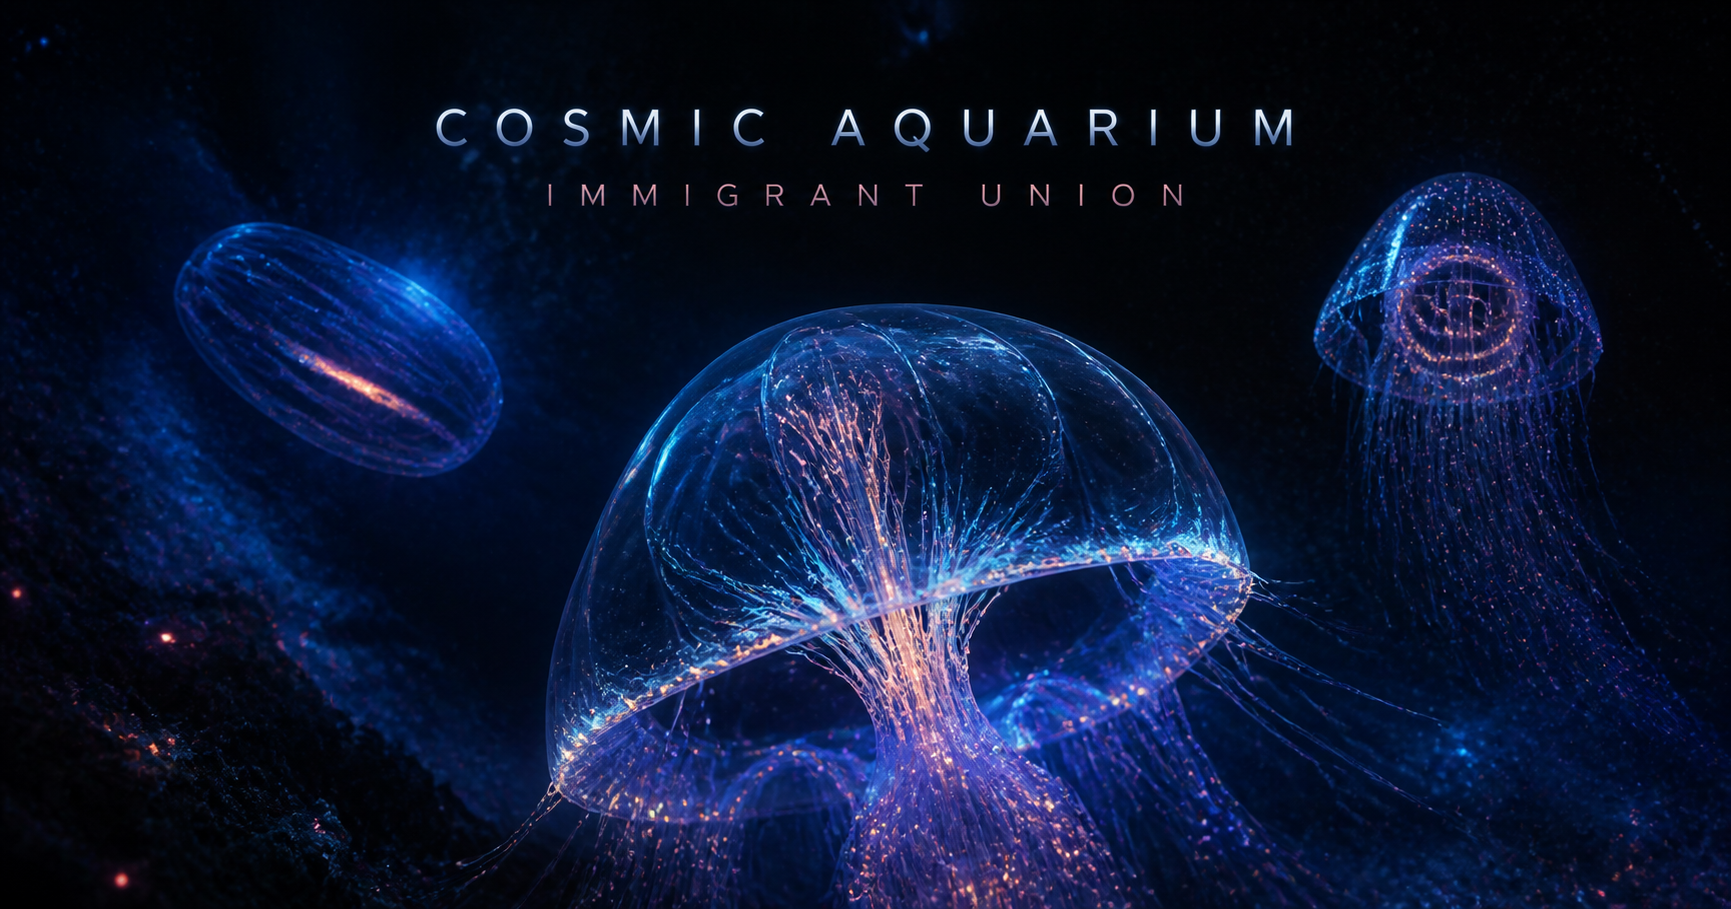
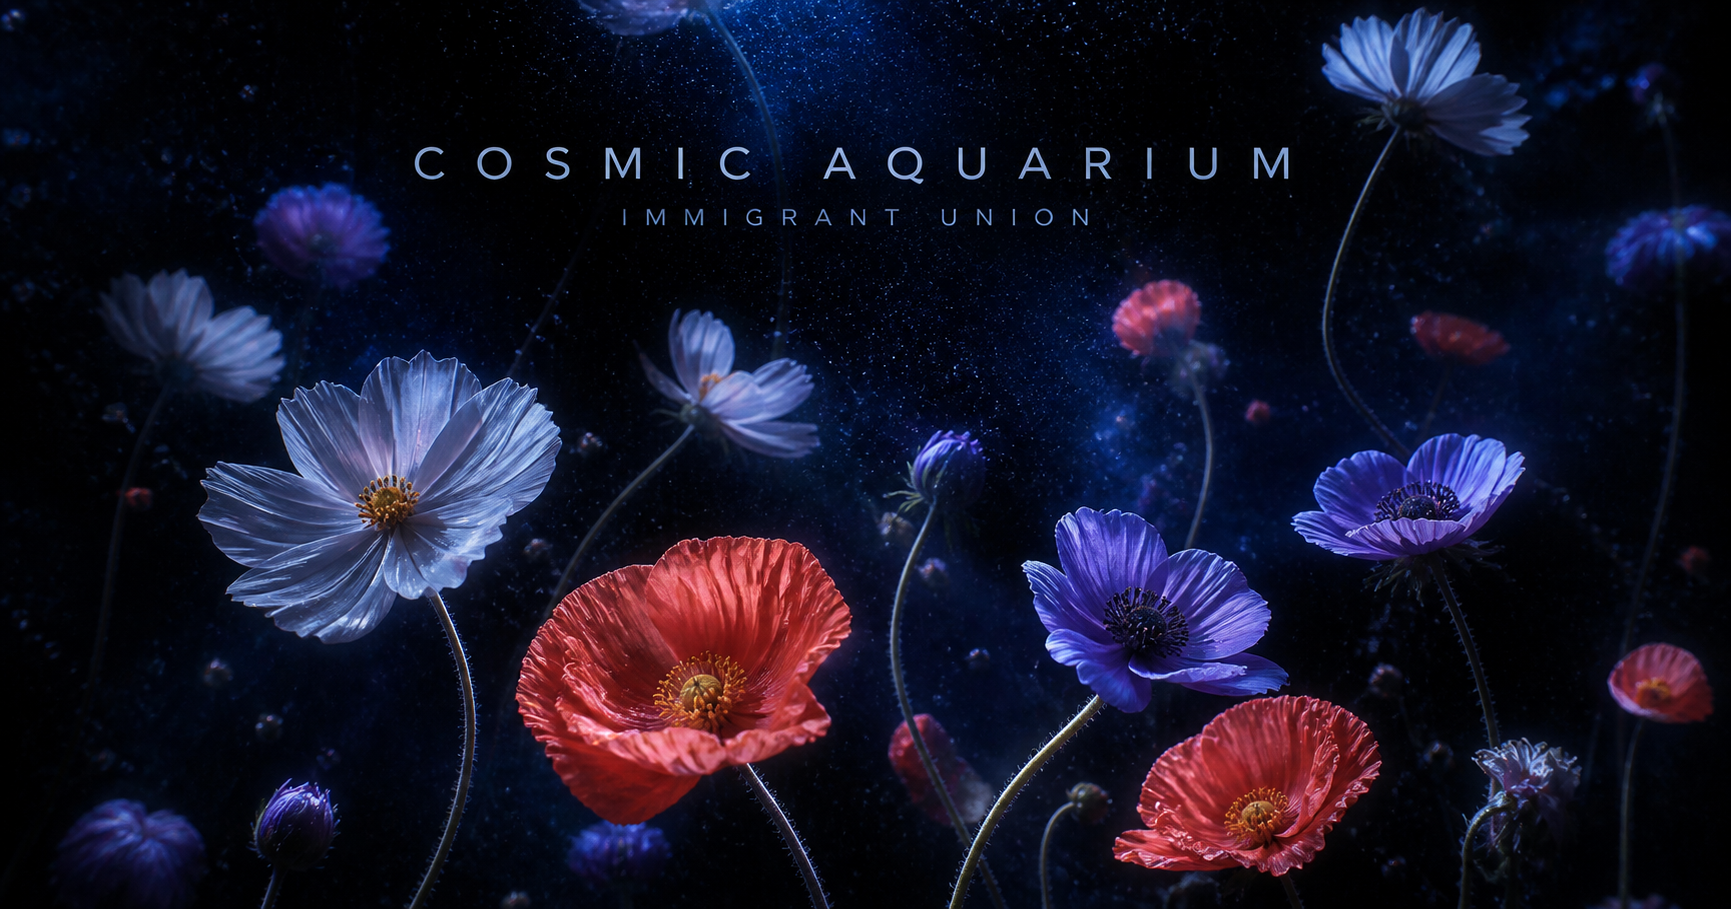
Replace cosmic organisms with flowing flowers

diff --git a/src/features/cosmic-aquarium/CosmicAquarium.tsx b/src/features/cosmic-aquarium/CosmicAquarium.tsx
@@ -13,7 +13,7 @@ import { officialTrackEmbedUrl } from '@/src/adapters/bandcamp-adapter';
 import { immigrantUnionAlbums, immigrantUnionSongs } from '@/src/data/immigrant-union-catalogue';
 
 type Depth = 'far' | 'mid' | 'near' | 'foreground';
-type Species = 'bell' | 'orb' | 'manta' | 'radiolarian' | 'seed' | 'ribbon' | 'hero';
+type Species = 'cosmos' | 'poppy' | 'anemone';
 
 interface CreatureDefinition {
   id: string;
@@ -31,16 +31,16 @@ interface CreatureDefinition {
 }
 
 const CREATURES: CreatureDefinition[] = [
-  { id: 'ca-01', trackIndex: 0, species: 'bell', depth: 'near', x: 13, y: 30, size: 118, duration: 24, delay: -9, travelX: 34, travelY: -42, hue: 194 },
-  { id: 'ca-02', trackIndex: 19, species: 'orb', depth: 'far', x: 78, y: 19, size: 66, duration: 31, delay: -18, travelX: -49, travelY: 29, hue: 270 },
-  { id: 'ca-03', trackIndex: 30, species: 'manta', depth: 'mid', x: 83, y: 43, size: 98, duration: 27, delay: -4, travelX: -72, travelY: 24, hue: 312 },
-  { id: 'ca-04', trackIndex: 5, species: 'radiolarian', depth: 'near', x: 20, y: 61, size: 132, duration: 35, delay: -24, travelX: 43, travelY: -28, hue: 205 },
-  { id: 'ca-05', trackIndex: 37, species: 'seed', depth: 'near', x: 88, y: 79, size: 108, duration: 23, delay: -12, travelX: -38, travelY: -52, hue: 335 },
-  { id: 'ca-06', trackIndex: 9, species: 'ribbon', depth: 'far', x: 8, y: 84, size: 74, duration: 38, delay: -29, travelX: 64, travelY: -19, hue: 249 },
-  { id: 'ca-07', trackIndex: 35, species: 'hero', depth: 'mid', x: 52, y: 38, size: 158, duration: 33, delay: -20, travelX: -27, travelY: 39, hue: 214 },
-  { id: 'ca-08', trackIndex: 24, species: 'bell', depth: 'foreground', x: -5, y: 48, size: 210, duration: 42, delay: -15, travelX: 44, travelY: 18, hue: 185 },
-  { id: 'ca-09', trackIndex: 12, species: 'orb', depth: 'far', x: 57, y: 73, size: 55, duration: 29, delay: -22, travelX: 30, travelY: -55, hue: 293 },
-  { id: 'ca-10', trackIndex: 27, species: 'manta', depth: 'mid', x: 48, y: 91, size: 96, duration: 26, delay: -8, travelX: 58, travelY: -37, hue: 224 },
+  { id: 'ca-01', trackIndex: 0, species: 'cosmos', depth: 'near', x: 13, y: 30, size: 118, duration: 24, delay: -9, travelX: 34, travelY: -42, hue: 194 },
+  { id: 'ca-02', trackIndex: 19, species: 'anemone', depth: 'far', x: 78, y: 19, size: 66, duration: 31, delay: -18, travelX: -49, travelY: 29, hue: 270 },
+  { id: 'ca-03', trackIndex: 30, species: 'poppy', depth: 'mid', x: 83, y: 43, size: 98, duration: 27, delay: -4, travelX: -72, travelY: 24, hue: 312 },
+  { id: 'ca-04', trackIndex: 5, species: 'cosmos', depth: 'near', x: 20, y: 61, size: 132, duration: 35, delay: -24, travelX: 43, travelY: -28, hue: 205 },
+  { id: 'ca-05', trackIndex: 37, species: 'poppy', depth: 'near', x: 88, y: 79, size: 108, duration: 23, delay: -12, travelX: -38, travelY: -52, hue: 335 },
+  { id: 'ca-06', trackIndex: 9, species: 'anemone', depth: 'far', x: 8, y: 84, size: 74, duration: 38, delay: -29, travelX: 64, travelY: -19, hue: 249 },
+  { id: 'ca-07', trackIndex: 35, species: 'anemone', depth: 'mid', x: 52, y: 38, size: 158, duration: 33, delay: -20, travelX: -27, travelY: 39, hue: 214 },
+  { id: 'ca-08', trackIndex: 24, species: 'cosmos', depth: 'foreground', x: -5, y: 48, size: 210, duration: 42, delay: -15, travelX: 44, travelY: 18, hue: 185 },
+  { id: 'ca-09', trackIndex: 12, species: 'poppy', depth: 'far', x: 57, y: 73, size: 55, duration: 29, delay: -22, travelX: 30, travelY: -55, hue: 293 },
+  { id: 'ca-10', trackIndex: 27, species: 'cosmos', depth: 'mid', x: 48, y: 91, size: 96, duration: 26, delay: -8, travelX: 58, travelY: -37, hue: 224 },
 ];
 
 const historyKey = 'project-b-side:cosmic-aquarium-history-v1';
@@ -76,6 +76,7 @@ export function CosmicAquarium() {
     [selectedId],
   );
   const selectedTrack = selectedCreature ? immigrantUnionSongs[selectedCreature.trackIndex] : null;
+  const selectedFlower = selectedCreature ? '/flowers/' + selectedCreature.species + '.png' : '/flowers/cosmos.png';
   const selectedEmbed = selectedTrack ? officialTrackEmbedUrl(selectedTrack.bandcampEmbedTrackId) : null;
   const selectedAccent = selectedTrack ? albumAccent(selectedTrack.albumKey) : '#73d9ff';
 
@@ -109,7 +110,7 @@ export function CosmicAquarium() {
       y: clientY === undefined ? creature.y : (clientY / window.innerHeight) * 100,
     });
     setCapturingId(creature.id);
-    setAnnouncement('Creature caught. Its light is reorganising.');
+    setAnnouncement('Flower caught. Its light is reorganising.');
     if ('vibrate' in navigator) navigator.vibrate(10);
     captureTimer.current = window.setTimeout(() => {
       setSelectedId(creature.id);
@@ -161,7 +162,7 @@ export function CosmicAquarium() {
         <p>{selectedTrack ? 'A SONG FOUND IN THE DARK' : 'TOUCH SOMETHING.'}</p>
       </header>
 
-      <div className="creature-field" aria-label="Unknown song creatures">
+      <div className="creature-field" aria-label="Unknown song flowers">
         {CREATURES.map((creature, index) => {
           const isSelected = selectedId === creature.id;
           const isCapturing = capturingId === creature.id;
@@ -174,20 +175,13 @@ export function CosmicAquarium() {
               }
               style={creatureStyle(creature, index)}
               type="button"
-              aria-label={isSelected ? 'Currently playing creature' : 'Catch this unknown song creature'}
+              aria-label={isSelected ? 'Currently playing flower' : 'Catch this unknown song flower'}
               aria-pressed={isSelected}
               onPointerDown={(event) => onCreaturePointerDown(event, creature)}
               onClick={(event) => onCreatureKeyboardClick(event, creature)}
             >
               <span className="creature-hitbox" aria-hidden="true" />
-              {creature.species === 'hero' ? (
-                <img src="/cosmic/hero-organism.png" alt="" draggable="false" />
-              ) : (
-                <>
-                  <span className="creature-body"><i /><b /></span>
-                  <span className="creature-filaments" />
-                </>
-              )}
+              <img src={'/flowers/' + creature.species + '.png'} alt="" draggable="false" />
             </button>
           );
         })}
@@ -203,7 +197,7 @@ export function CosmicAquarium() {
 
       {selectedTrack ? (
         <section className="living-player" aria-labelledby="living-player-title">
-          <img className="player-membrane" src="/cosmic/hero-organism.png" alt="" aria-hidden="true" />
+          <img className="player-membrane" src={selectedFlower} alt="" aria-hidden="true" />
           <div className="player-nucleus" aria-hidden="true">
             <i className="nucleus-landscape" />
             <span>{selectedTrack.albumTitle.slice(0, 1)}</span>

diff --git a/app/cosmic-aquarium.css b/app/cosmic-aquarium.css
@@ -117,7 +117,7 @@
   left: var(--x);
   top: var(--y);
   width: max(44px, var(--size));
-  height: max(44px, var(--size));
+  height: max(66px, calc(var(--size) * 1.5));
   border: 0;
   padding: 0;
   background: none;
@@ -128,7 +128,7 @@
   -webkit-tap-highlight-color: transparent;
   transform: translate(-50%, -50%) scale(var(--depth-scale));
   transform-origin: center;
-  animation: creature-drift var(--duration) cubic-bezier(.45, .08, .55, .93) var(--delay) infinite alternate;
+  animation: flower-fall var(--duration) linear var(--delay) infinite;
   transition: opacity .42s ease, filter .42s ease;
   will-change: transform;
 }
@@ -150,9 +150,13 @@
   width: 100%;
   height: 100%;
   object-fit: contain;
-  filter: hue-rotate(calc((var(--hue) - 214) * 1deg)) saturate(1.24) drop-shadow(0 0 17px rgba(55, 128, 255, .5));
+  filter: saturate(1.08) drop-shadow(0 0 17px rgba(55, 128, 255, .34));
   pointer-events: none;
+  transform-origin: 50% 18%;
 }
+.creature--cosmos img { filter: brightness(.96) saturate(.92) drop-shadow(0 0 18px rgba(123, 176, 255, .36)); }
+.creature--poppy img { filter: brightness(.88) saturate(1.14) drop-shadow(0 0 18px rgba(255, 91, 112, .34)); }
+.creature--anemone img { filter: brightness(.9) saturate(1.1) drop-shadow(0 0 18px rgba(113, 96, 255, .36)); }
 
 .creature-body {
   position: absolute;
@@ -304,14 +308,14 @@
   position: absolute;
   z-index: -1;
   left: 50%;
-  top: -9px;
-  width: 206px;
-  height: 258px;
+  top: -28px;
+  width: 230px;
+  height: 318px;
   object-fit: contain;
-  opacity: .35;
-  filter: hue-rotate(3deg) saturate(1.15) brightness(.92) drop-shadow(0 0 18px rgba(75, 134, 255, .35));
+  opacity: .46;
+  filter: saturate(1.08) brightness(.82) drop-shadow(0 0 22px rgba(75, 134, 255, .3));
   transform: translateX(-50%);
-  mask-image: linear-gradient(to bottom, #000 0 58%, transparent 88%);
+  mask-image: linear-gradient(to bottom, #000 0 62%, transparent 94%);
 }
 
 .player-nucleus {
@@ -361,11 +365,12 @@
 
 @keyframes cosmic-stars { to { transform: translate3d(-18px, 34px, 0); } }
 @keyframes cosmic-atmosphere-turn { to { transform: rotate(1turn); } }
-@keyframes creature-drift {
-  0% { transform: translate(calc(-50% - 8px), calc(-50% - 9px)) scale(var(--depth-scale)) rotate(-3deg); }
-  34% { transform: translate(calc(-50% + var(--travel-x) * .38), calc(-50% + var(--travel-y) * .23)) scale(calc(var(--depth-scale) * 1.025)) rotate(2deg); }
-  68% { transform: translate(calc(-50% + var(--travel-x) * .78), calc(-50% + var(--travel-y) * .72)) scale(calc(var(--depth-scale) * .98)) rotate(-1deg); }
-  100% { transform: translate(calc(-50% + var(--travel-x)), calc(-50% + var(--travel-y))) scale(var(--depth-scale)) rotate(4deg); }
+@keyframes flower-fall {
+  0% { transform: translate(calc(-50% - var(--travel-x) * .32), calc(-50% - 128vh)) scale(var(--depth-scale)) rotate(-13deg); }
+  22% { transform: translate(calc(-50% + var(--travel-x) * .48), calc(-50% - 74vh)) scale(calc(var(--depth-scale) * 1.02)) rotate(7deg); }
+  46% { transform: translate(calc(-50% - var(--travel-x) * .28), calc(-50% - 18vh)) scale(var(--depth-scale)) rotate(-5deg); }
+  72% { transform: translate(calc(-50% + var(--travel-x) * .62), calc(-50% + 43vh)) scale(calc(var(--depth-scale) * .98)) rotate(10deg); }
+  100% { transform: translate(calc(-50% - var(--travel-x) * .18), calc(-50% + 124vh)) scale(var(--depth-scale)) rotate(-8deg); }
 }
 @keyframes creature-nucleus { to { transform: scale(1.14); opacity: .72; } }
 @keyframes creature-touch { 0% { transform: scale(1); } 34% { transform: scale(.93); } 100% { transform: scale(1.15); opacity: 0; } }

diff --git a/app/layout.tsx b/app/layout.tsx
@@ -3,7 +3,7 @@ import './globals.css';
 import './cosmic-aquarium.css';
 
 const title = 'Cosmic Aquarium — Immigrant Union';
-const description = 'Catch a luminous creature, reveal an Immigrant Union song, and listen through Bandcamp in a living cosmic aquarium.';
+const description = 'Catch a luminous flower, reveal an Immigrant Union song, and listen through Bandcamp in a living cosmic aquarium.';
 
 export const metadata: Metadata = {
   metadataBase: new URL('https://project-b-side.raggedya.chatgpt.site'),
@@ -17,7 +17,7 @@ export const metadata: Metadata = {
       url: '/og-cosmic-aquarium.png',
       width: 1200,
       height: 630,
-      alt: 'Cosmic Aquarium — luminous deep-space organisms carrying Immigrant Union songs',
+      alt: 'Cosmic Aquarium — realistic flowers flowing through deep space, each carrying an Immigrant Union song',
     }],
   },
   twitter: {
